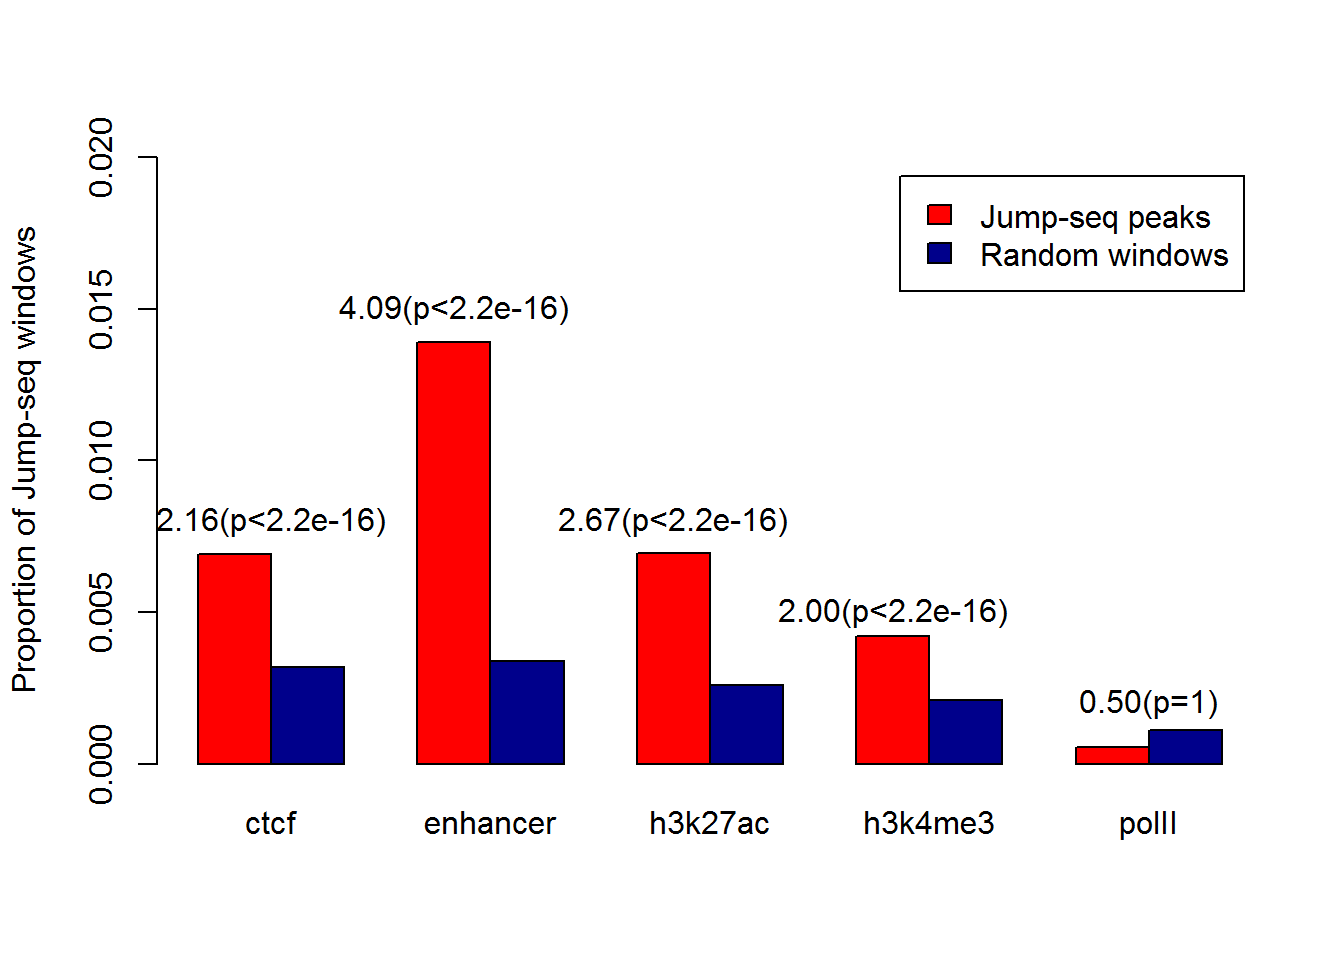
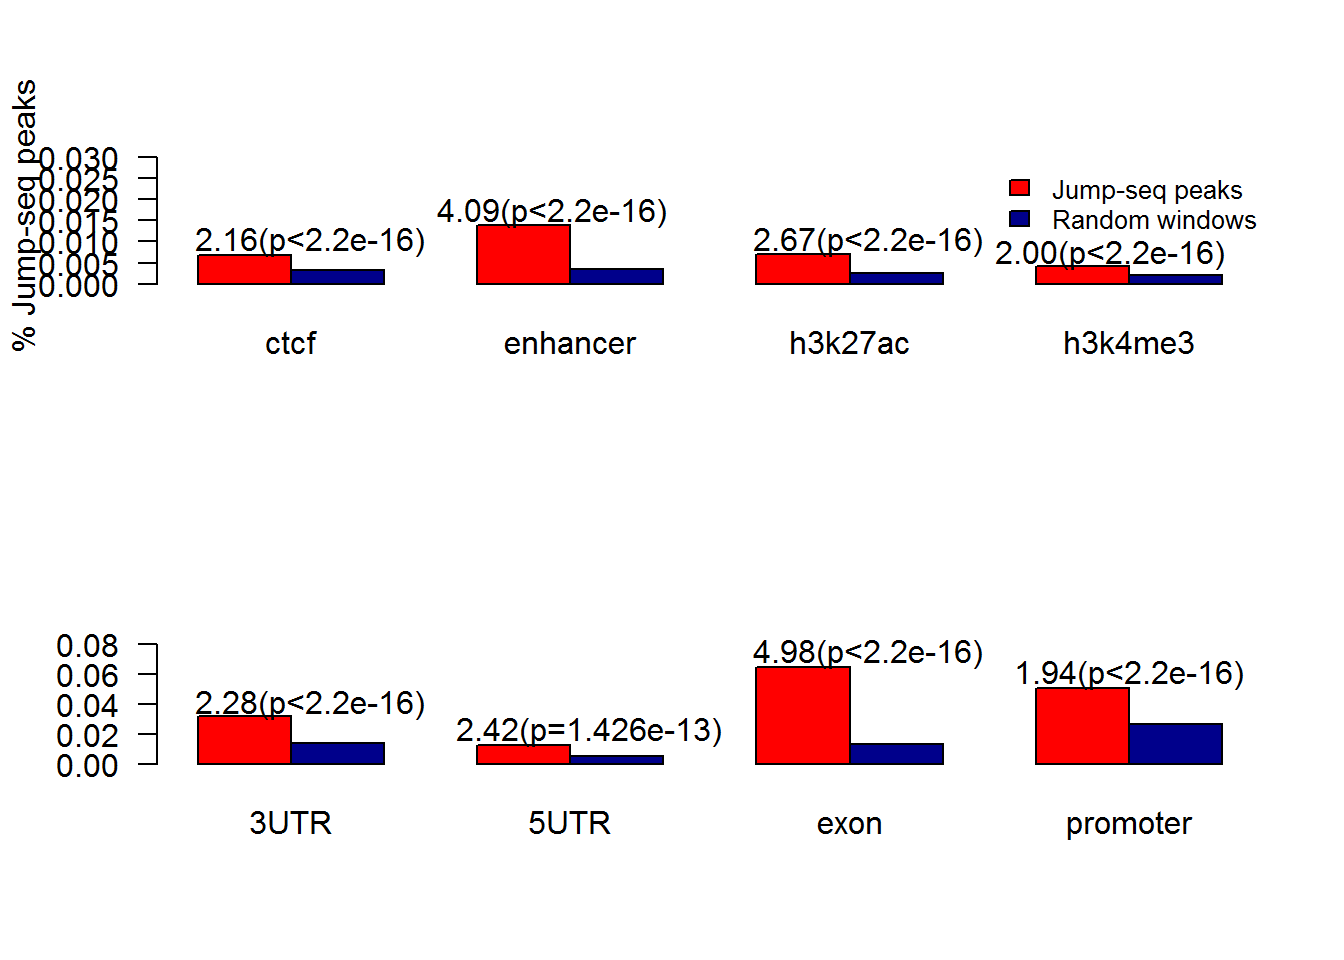
Sep282018

diff --git a/docs/FinalAnalysis.html b/docs/FinalAnalysis.html
@@ -476,6 +476,7 @@ For 0.6ng 5hmC sample, 20 bp windows with at least one reads are called peak win
 <li>cis-regulatory regions are extended 200bp windows.</li>
 <li>jump peaks are 20 bp windows with at least one reads.</li>
 </ul>
+<p>minus.percent[,5]=c(75887/2368196, 140/10000) minus.percent[,6]=c(30340/2368196, 53/10000) minus.percent[,7]=c(153280/2368196, 130/10000) minus.percent[,8]=c(121485/2368196, 265/10000) minus.percent[,9]=c( 1213246/2368196, 3860/10000)</p>
 </div>
 
 <hr>
